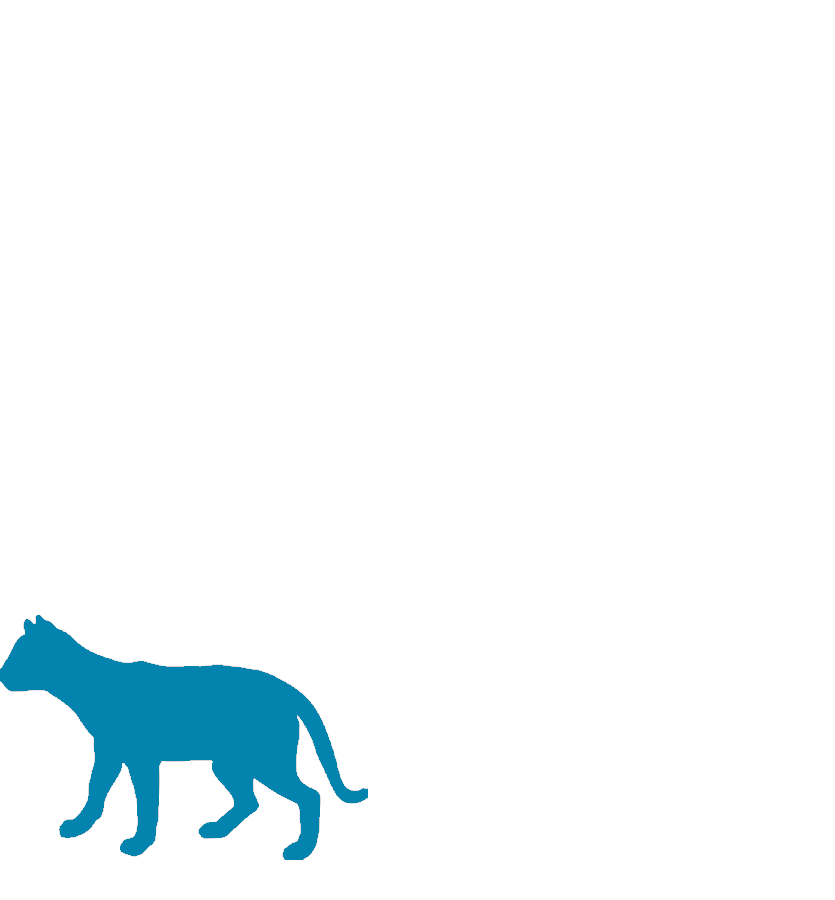
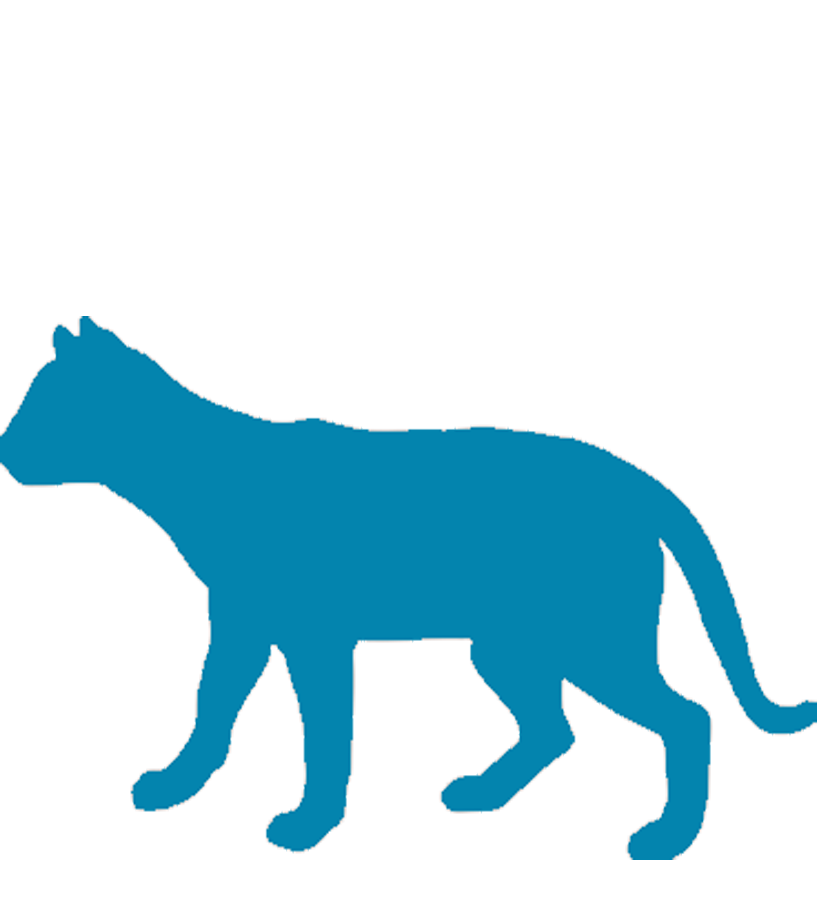
removes irrelevant instruction increases size of demo image to be more similar to final ones fixes params to all true runs setup experiment with new data table

Changed region(s): [[0.0, 0.3422, 0.9964, 0.9644]]

diff --git a/src/js/core/instructions.js b/src/js/core/instructions.js
@@ -84,7 +84,7 @@ function loadInstrContent() {
         /* ind0 */ '<p>Hello! Thank you for participating in our study. Please take a moment to adjust your seating so that you can comfortably watch the monitor and use the keyboard. Feel free to dim the lights as well.</p><p>Close the door or do whatever is necessary to <b>minimize disturbance during the experiment</b>. Please also take a moment to silence your phone so that you are not interrupted by any messages mid-experiment. Do <i>not</i> switch to any other tabs or windows until you are complete.</p>',
         /* ind1 */ `<p>A cross will briefly appear in the center of the screen. Then, right after, two images will appear somewhere on the screen for a short time (one will appear shortly before the other).</p><p>Your job is simple: after the two images disappear, you will be asked to <b>recreate the how far the images were from each other</b>. <p>On the next page, we will show you an example.</p>`,
         /* ind2 */ `<p>As you just experienced, the images flash quickly, and its hard to get the distance between the images exactly right. The images will change throughout the experiment, but your job stays the same.</p><p>Each time the images disappear, <b>use the slider to recreate the distance that was between them</b>.</p>`,
-        /* ind3 */ `<p>Randomly, every few rounds, you'll also be asked an additional question. Specifically, you'll be asked about the <b>hairstyle</b> of the person you saw. (You will be given options to choose from.)</p><p>So don't forget to pay attention to the hairstyle, while <b>still doing your best to recreate the distance between the two images</b>.</p>`,
+        // /* ind3 */ `<p>Randomly, every few rounds, you'll also be asked an additional question. Specifically, you'll be asked about the <b>hairstyle</b> of the person you saw. (You will be given options to choose from.)</p><p>So don't forget to pay attention to the hairstyle, while <b>still doing your best to recreate the distance between the two images</b>.</p>`,
         /* ind4 */ `<p>Sometimes, you may be unsure of your answer. This is okay, since the task is designed to be difficult, as images flash quickly, and it is hard to nail exact spacing!  In times like this, just give it your <b>best guess, trying to be as precise as possible</b>, as we are interested in your <i>gut intuition</i>.</p><p>Please do your very best to remain as focused and attentive as possible, even at the end of the experiment. I know it is very difficult to stay focused for so long, especially when you are doing the same thing over and over. But remember, the experiment will be all over in less than ${String(estTotalRunTime)} minutes. Press the button below to begin.`,  
     ];
 

diff --git a/src/js/core/params.js b/src/js/core/params.js
@@ -6,8 +6,8 @@ Defining Parameter Variables
 
 var stimFolder = 'src/assets/stimuli/animals/'
 
-var runIntro = false;
-var runInstr = false;
+var runIntro = true;
+var runInstr = true;
 var runExpt = true;
 var runClose = true;
 var runPreload = true;
